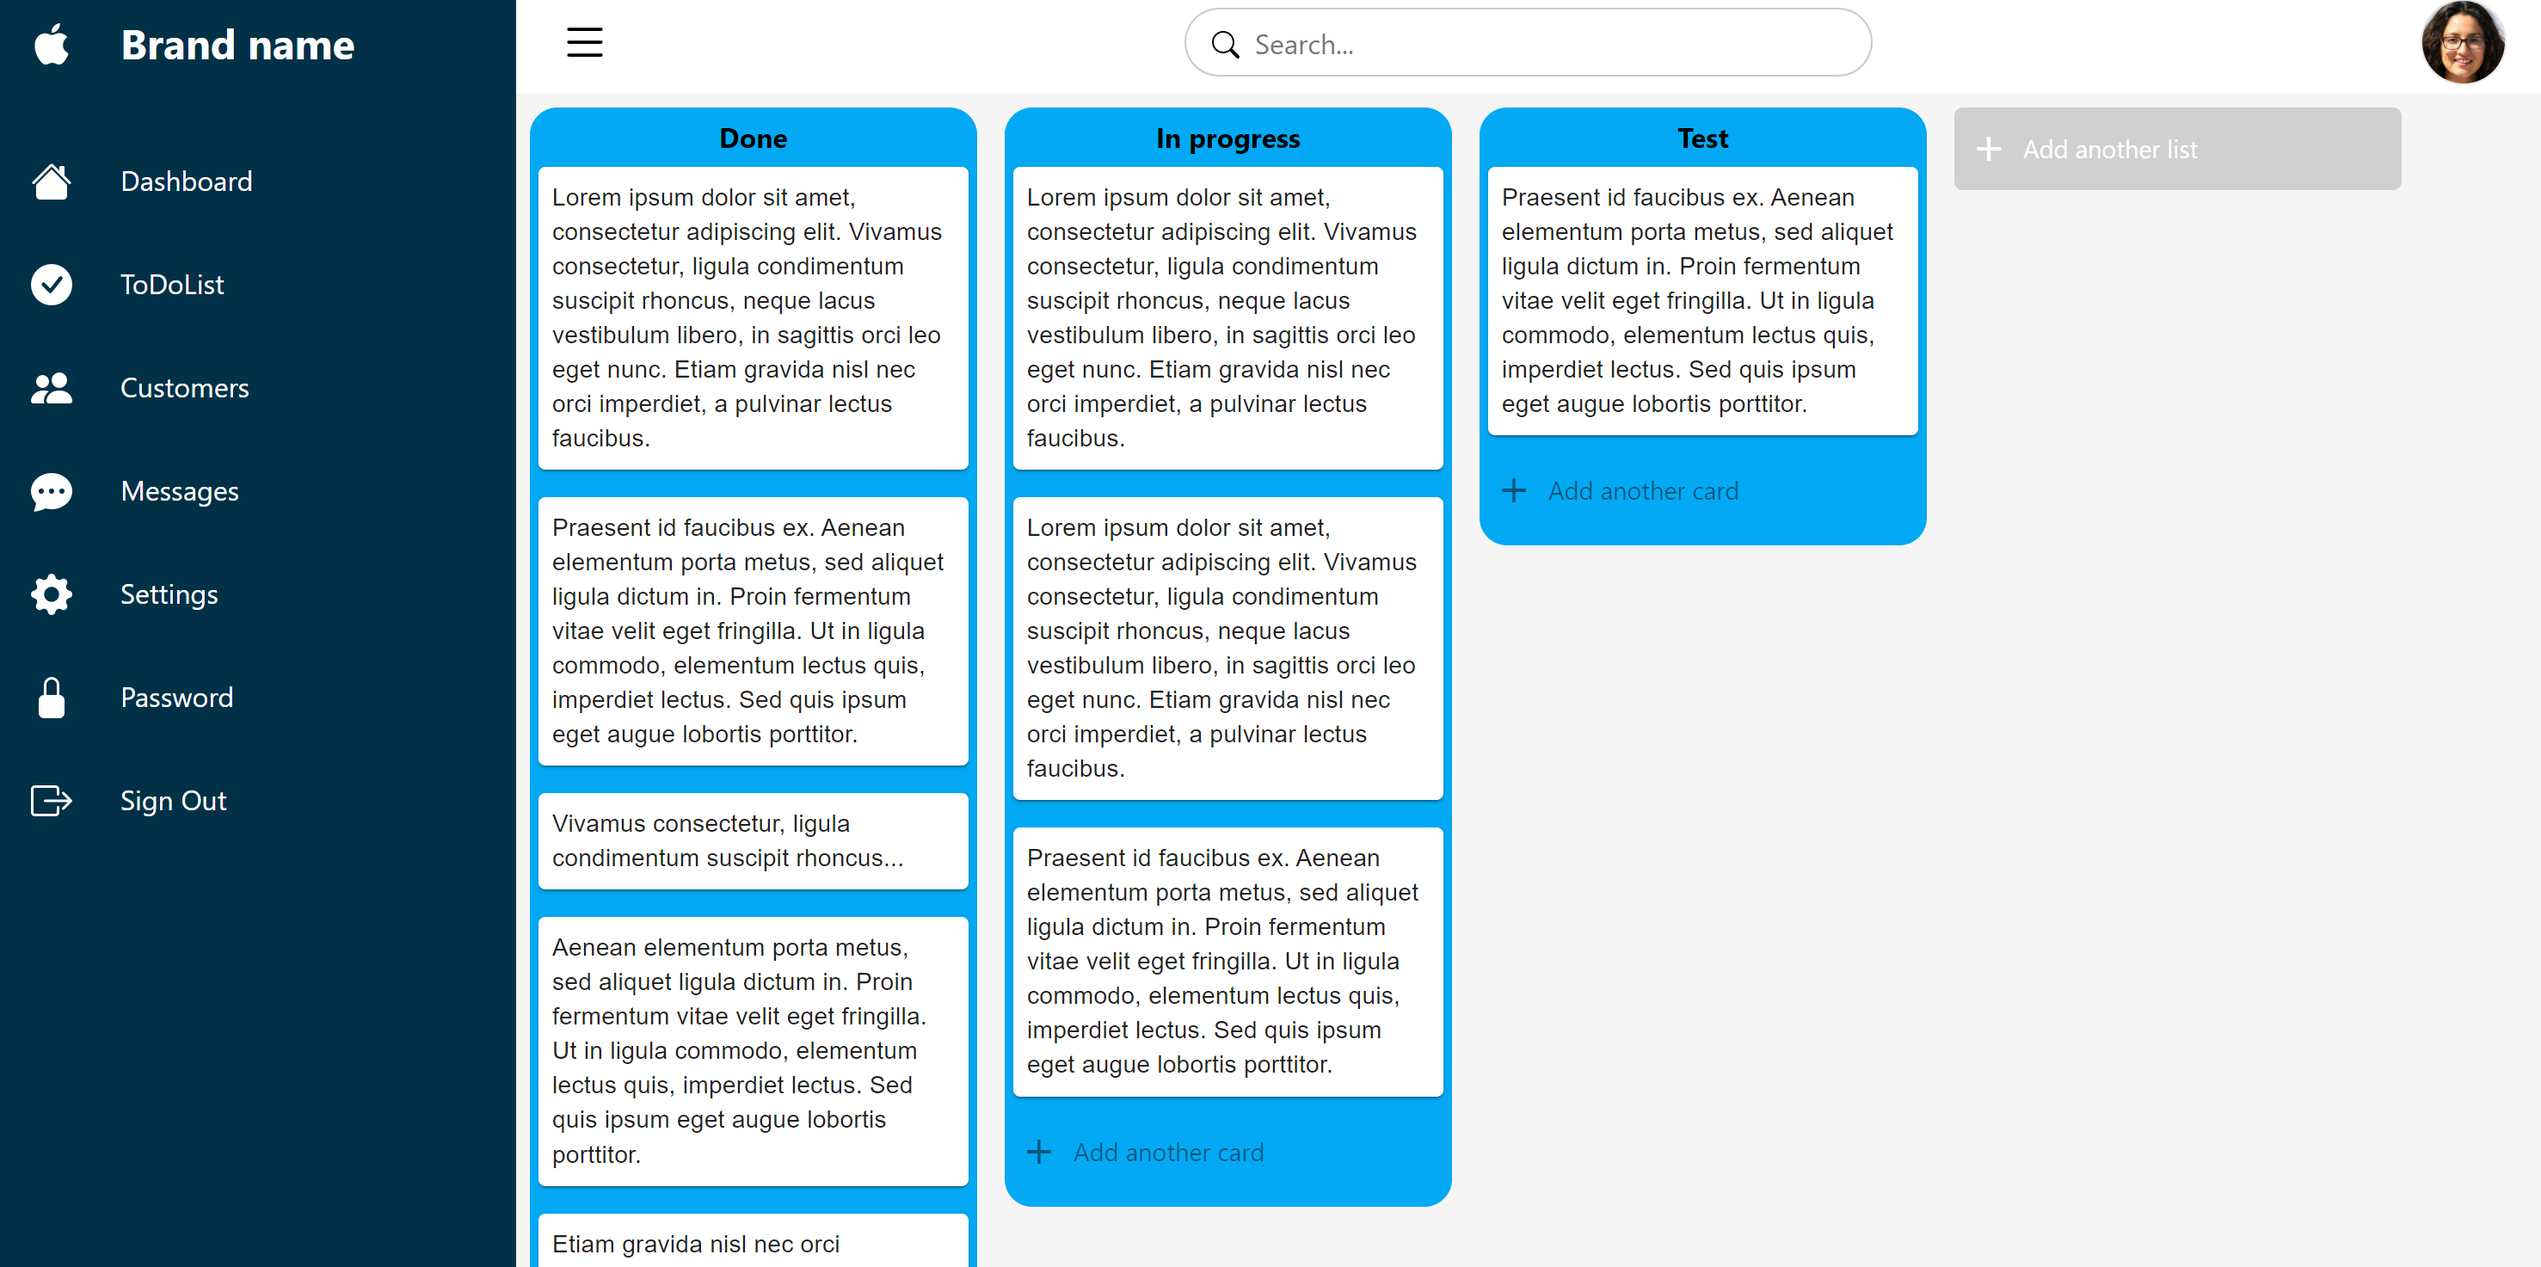
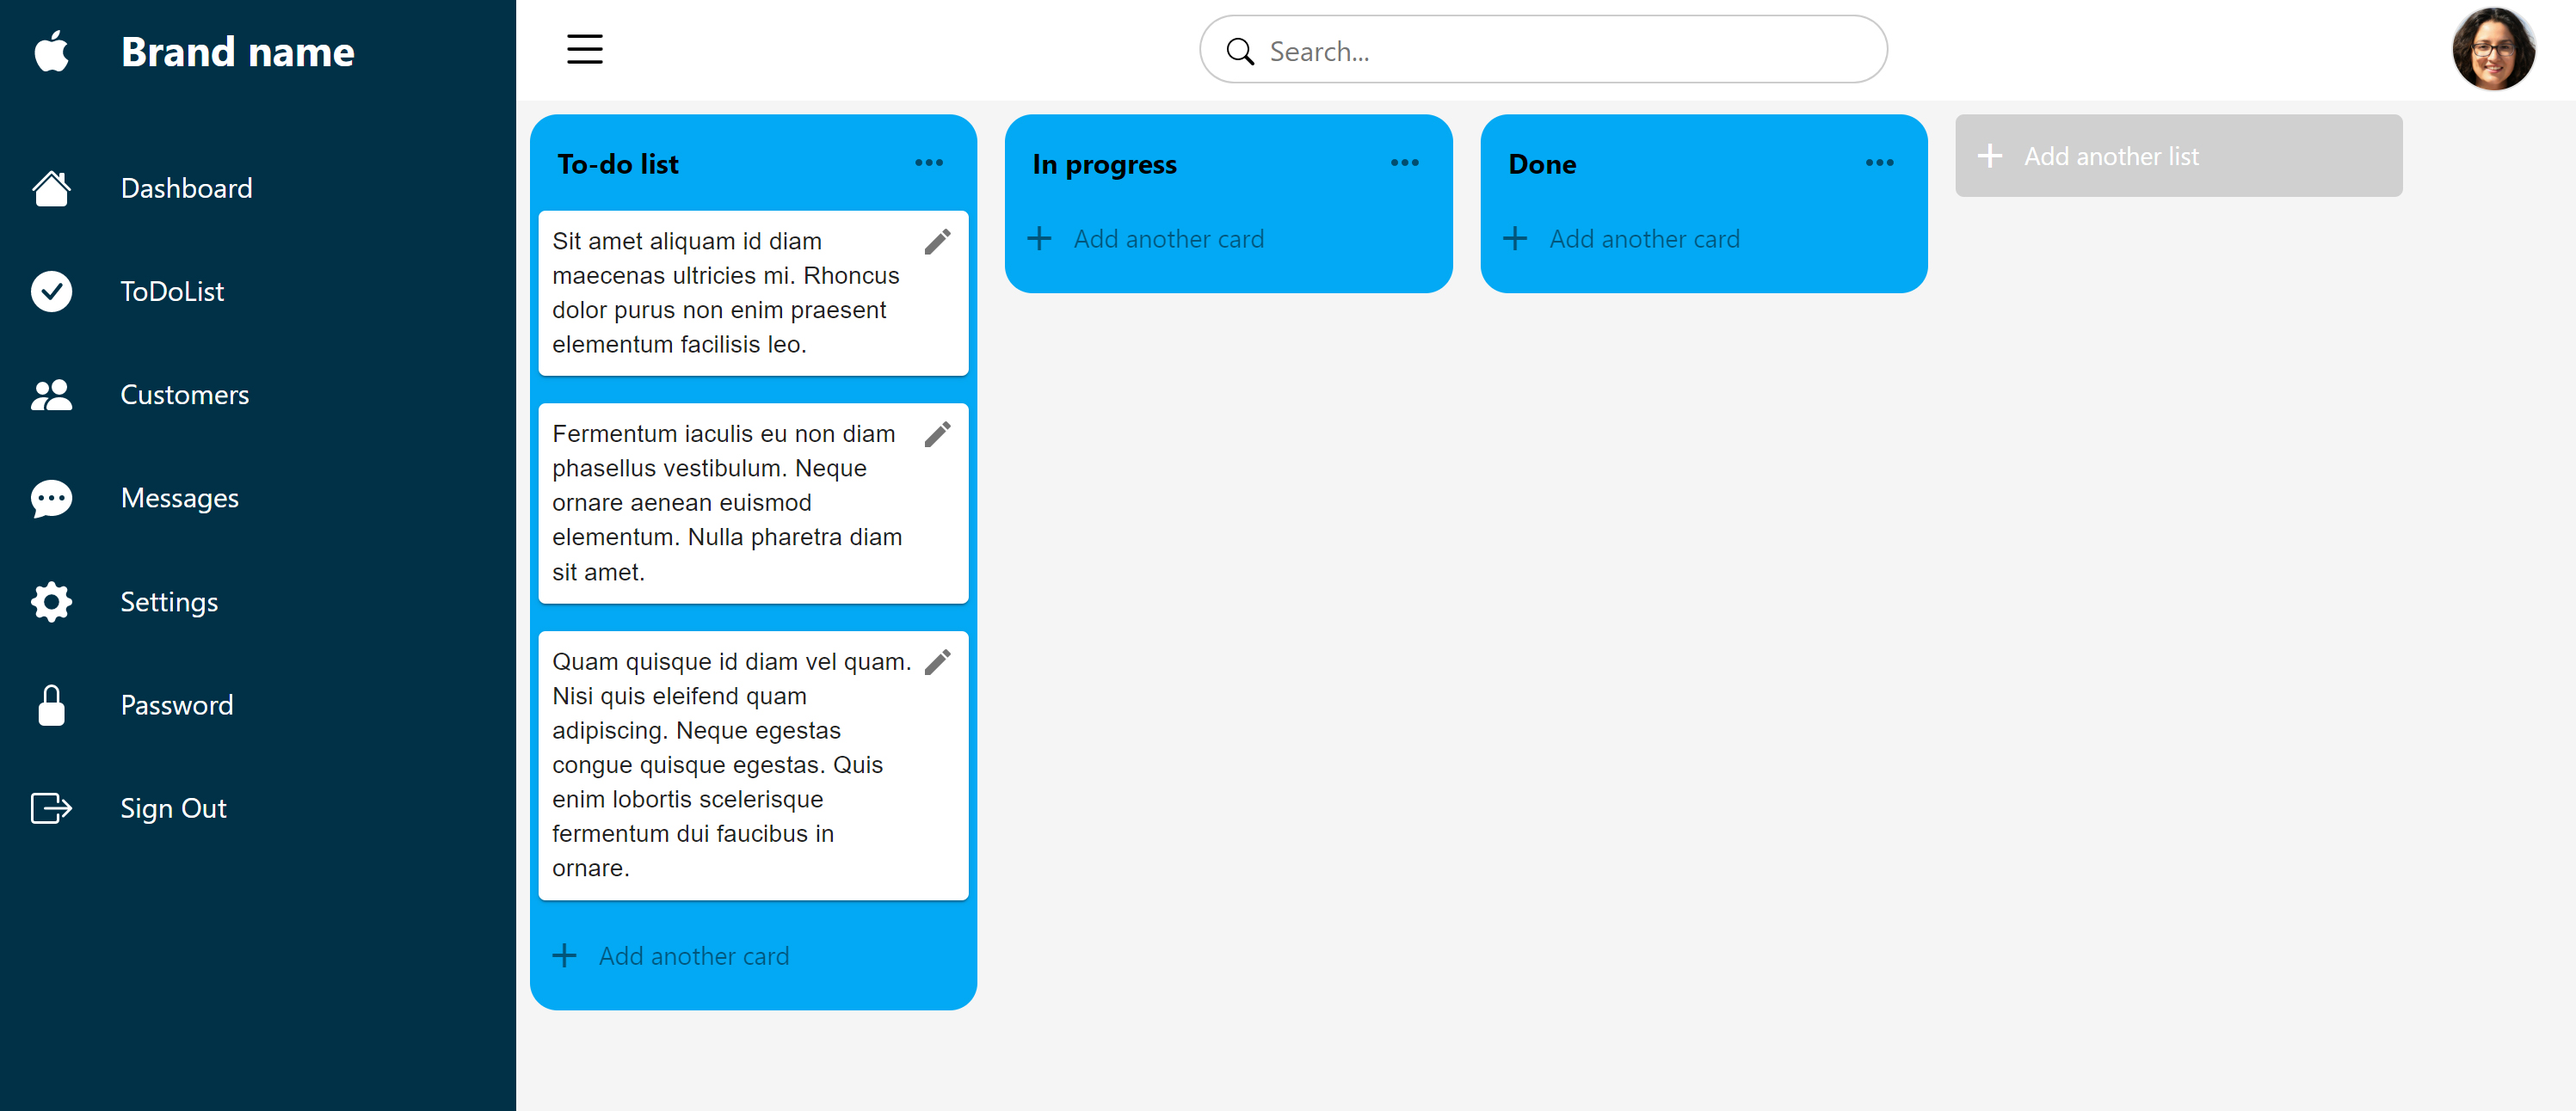
duplicate, archive, edit added for card

diff --git a/src/components/Pages/ToDoList/TrelloList/TrelloListMenu/TrelloListMenu.tsx b/src/components/Pages/ToDoList/TrelloList/TrelloListMenu/TrelloListMenu.tsx
@@ -3,7 +3,6 @@ import { observer } from 'mobx-react-lite';
 import listsStore from '../../../../../store/listsStore';
 
 import { styled, alpha } from '@mui/material/styles';
-import Button from '@mui/material/Button';
 import Menu, { MenuProps } from '@mui/material/Menu';
 import MenuItem from '@mui/material/MenuItem';
 import EditIcon from '@mui/icons-material/Edit';
@@ -12,7 +11,6 @@ import ArchiveIcon from '@mui/icons-material/Archive';
 import FileCopyIcon from '@mui/icons-material/FileCopy';
 import MoreHorizIcon from '@mui/icons-material/MoreHoriz';
 import IconButton from '@mui/material/IconButton';
-import DoneAllIcon from '@mui/icons-material/DoneAll';
 import TrelloListMenuInput from './TrelloListMenuInput';
 
 const StyledMenu = styled((props: MenuProps) => (
@@ -60,9 +58,10 @@ type Props = {
     id: string;
     text: string;
     type: string;
+    listID: string;
 };
 
-const TrelloListMenu = observer(({ id, text, type }: Props) => {
+const TrelloListMenu = observer(({ id, text, type, listID }: Props) => {
     const { duplicate, archive, edit } = listsStore;
     const [title, setTitle] = useState(text);
     const [modalEdit, setModalEdit] = useState(false);
@@ -76,19 +75,18 @@ const TrelloListMenu = observer(({ id, text, type }: Props) => {
     };
 
     const handleDuplicate = () => {
-        duplicate(id, type);
+        duplicate(id, type, listID);
         setAnchorEl(null);
     }
 
     const handleArchive = () => {
-        archive(id, type);
+        archive(id, type, listID);
         setAnchorEl(null);
     }
 
     const handleEdit = () => {
-        setModalEdit(false);
-        edit(id, title, type);
-        setAnchorEl(null);
+        setModalEdit(true);
+        edit(id, title, type, listID);
     }
 
     const handleOpenModal = () => {
@@ -107,7 +105,11 @@ const TrelloListMenu = observer(({ id, text, type }: Props) => {
                 aria-haspopup="true"
                 onClick={handleClick}
             >
-                <MoreHorizIcon />
+                {type === 'list' ? (
+                    <MoreHorizIcon />
+                ) : (
+                    <EditIcon fontSize='small' />
+                )}
             </IconButton>
             <StyledMenu
                 id="demo-customized-menu"
@@ -118,22 +120,13 @@ const TrelloListMenu = observer(({ id, text, type }: Props) => {
                 open={open}
                 onClose={handleClose}
             >
-                {modalEdit ? (
-                    <>
-                        <TrelloListMenuInput title={title} handleChange={handleChange} />
-                        <MenuItem onClick={handleEdit} disableRipple>
-                            <DoneAllIcon />
-                            Done
-                        </MenuItem>
-                    </>
-                ) : (
-                    <>
-                        <MenuItem onClick={handleOpenModal} disableRipple>
-                            <EditIcon />
-                            Edit
-                        </MenuItem>
-                    </>
+                {modalEdit && (
+                    <TrelloListMenuInput title={title} handleChange={handleChange} type={type} />
                 )}
+                <MenuItem onClick={handleEdit} disableRipple>
+                    <EditIcon />
+                    Edit
+                </MenuItem>
                 <MenuItem onClick={handleDuplicate} disableRipple itemID={id}>
                     <FileCopyIcon />
                     Duplicate

diff --git a/src/store/listsStore.ts b/src/store/listsStore.ts
@@ -51,10 +51,10 @@ class ListsStore {
 
     getCardId = () => Math.floor(Math.random()*10000);
 
-    duplicate = (listID: string, type: string) => {
+    duplicate = (id: string, type: string, listID: string) => {
         if(type === 'list') {
             this.listID++;
-            const list = this.lists.find(list => listID === list.id);
+            const list = this.lists.find(list => id === list.id);
     
             if(list) {
                 const newList = {
@@ -65,26 +65,61 @@ class ListsStore {
                 this.lists = [...this.lists, newList];
             }
         }
+        if(type === 'card') {
+            this.cardID = this.getCardId();
+            const list = this.lists.find(list => listID === list.id);
+            if(list) {
+                const card = list.cards.find(card => id === card.id);
+                if(card) {
+                    const newCard = {
+                        id: `card-${this.cardID}`,
+                        text: card.text
+                    }
+                    list.cards = [...list.cards, newCard];
+                }
+            } 
+        }
+        this.lists = [...this.lists];
     }
 
-    archive = (listID: string, type: string) => {
+    archive = (id: string, type: string, listID: string) => {
         if(type === 'list') {
-            const list = this.lists.find(list => listID === list.id);
+            const list = this.lists.find(list => id === list.id);
             if(list) {
                 this.lists.splice(this.lists.indexOf(list), 1);
             }
-            this.lists = [...this.lists];
         }
+        if(type === 'card') {
+            const list = this.lists.find(list => listID === list.id);
+            if(list) {
+                const card = list.cards.find(card => id === card.id);
+                if(card) {
+                    list.cards.splice(list.cards.indexOf(card), 1);
+                    list.cards = [...list.cards];
+                }
+            } 
+        }
+        this.lists = [...this.lists];
     }
 
-    edit = (listID: string, text: string, type: string) => {
+    edit = (id: string, text: string, type: string, listID: string) => {
         if(type === 'list') {
-            const list = this.lists.find(list => listID === list.id);
+            const list = this.lists.find(list => id === list.id);
             if(list) {
                 list.title = text;
             }
-            this.lists = [...this.lists];
+        } 
+        if(type === 'card') {
+            const list = this.lists.find(list => listID === list.id);
+            if(list) {
+                const card = list.cards.find(card => id === card.id);
+                if(card) {
+                    card.text = text; 
+                    list.cards = [...list.cards];
+                }
+            } 
         }
+        this.lists = [...this.lists];
     }
 
     sort = (result: any) => {

diff --git a/src/components/Pages/ToDoList/TrelloCard/TrelloCard.tsx b/src/components/Pages/ToDoList/TrelloCard/TrelloCard.tsx
@@ -4,16 +4,16 @@ import Typography from "@mui/material/Typography";
 import { Draggable } from "@hello-pangea/dnd";
 
 import "./TrelloCard.scss";
-import { idText } from "typescript";
 import TrelloListMenu from "../TrelloList/TrelloListMenu/TrelloListMenu";
 
 type Props = {
   text: string;
   id: string;
   indexOfCard: number;
+  listID: string;
 };
 
-const TrelloCard = ({ text, id, indexOfCard }: Props) => {
+const TrelloCard = ({ text, id, indexOfCard, listID }: Props) => {
   return (
     <Draggable draggableId={String(id)} index={indexOfCard} key={`card_${id}`}>
       {(provided) => (
@@ -24,7 +24,7 @@ const TrelloCard = ({ text, id, indexOfCard }: Props) => {
         >
           <Card className="trelloCard">
             <div className="trelloCard__menu">
-              <TrelloListMenu id={id} text={text} type='card' />
+              <TrelloListMenu id={id} text={text} type='card' listID={listID} />
             </div>
             <Typography variant="body2">{text}</Typography>
           </Card>

diff --git a/src/components/Pages/ToDoList/TrelloList/TrelloListMenu/TrelloListMenuInput.tsx b/src/components/Pages/ToDoList/TrelloList/TrelloListMenu/TrelloListMenuInput.tsx
@@ -5,9 +5,10 @@ import TextField from '@mui/material/TextField';
 type Props = {
     title: string;
     handleChange: (e: React.ChangeEvent<HTMLTextAreaElement>) => void;
+    type: string;
 };
 
-export default function TrelloListMenuInput({ title, handleChange }: Props) {
+export default function TrelloListMenuInput({ title, handleChange, type }: Props) {
     return (
         <Box
             component="form"
@@ -19,7 +20,7 @@ export default function TrelloListMenuInput({ title, handleChange }: Props) {
         >
             <TextField
                 id="outlined-basic"
-                label="List title"
+                label={type === 'list' ? 'List title' : 'Card text'}
                 variant="outlined"
                 size="small"
                 placeholder={title}

diff --git a/src/components/Pages/ToDoList/TrelloList/TrelloList.tsx b/src/components/Pages/ToDoList/TrelloList/TrelloList.tsx
@@ -30,13 +30,14 @@ const TrelloList = observer(({ title, cards, id, indexOfList }: Props) => {
               <div {...provided.droppableProps} ref={provided.innerRef} className="trelloList">
                 <div className="trelloList__head">
                   <h4>{title}</h4>
-                  <TrelloListMenu id={id} text={title} type='list' />
+                  <TrelloListMenu id={id} text={title} type='list' listID={id} />
                 </div>
                 {cards.map((card, i) => (
                   <TrelloCard
                     text={card.text}
                     key={card.id}
                     id={card.id}
+                    listID={id}
                     indexOfCard={i}
                   />
                 ))}

diff --git a/src/components/Pages/ToDoList/TrelloCard/TrelloCard.scss b/src/components/Pages/ToDoList/TrelloCard/TrelloCard.scss
@@ -7,6 +7,7 @@
     width: 250px;
     margin: 0.5rem;
     padding: 0.5rem;
+    padding-right: 1.8rem;
     position: relative;
     &__menu {
         position: absolute;
